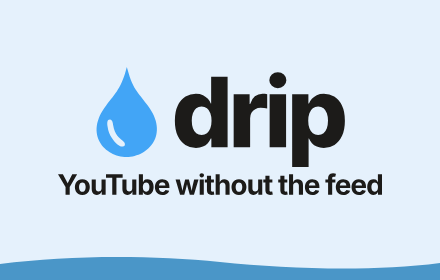
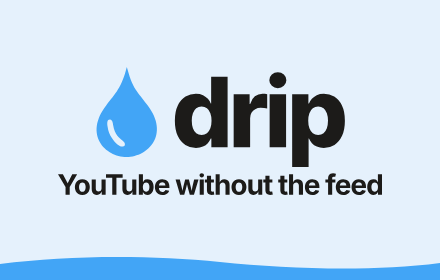
Store tile: the water strip in the drop's blue
On the pale blue background the water (rgb(74, 150, 200)) read as a
second, grayer blue beside the drop (#42a5f6). Jesse asked for one blue.
The five screenshots have no water and are byte for byte the same.

Claude-Session: https://claude.ai/code/session_01BaVsJg78QBgFX9FYqzaUSR

Changed region(s): [[0.0, 0.9143, 1.0, 1.0]]

diff --git a/store/art/frames-v5.html b/store/art/frames-v5.html
@@ -9,7 +9,7 @@
      ?tile=1. The words are on the left in the logo's Inter, and one piece of drip sits in a white panel on the right,
      on a pale blue. Jesse picked the layout (A of round 1) and the color (F of round 2).
      pieces.js takes the pictures of drip, and capture.sh v5 shoots these frames into store/images-v5/. */
-  :root { --mist: #e5f1fc; --ink: #1c1b19; --sub: #4a5968; --water: rgb(74, 150, 200); --shade: 20, 50, 90; }
+  :root { --mist: #e5f1fc; --ink: #1c1b19; --sub: #4a5968; --water: #42a5f6; --shade: 20, 50, 90; }
   html, body { margin: 0; background: var(--mist); }
   h1, p { margin: 0; }
   img { display: block; }
@@ -52,9 +52,9 @@
     <div class="words"><img class="mark" src="../logo/drip-wordmark.svg" alt="drip"><h1>${s.h}</h1>${s.p ? `<p>${s.p}</p>` : ''}</div>
     <div class="stage"><div class="panel${s.pad ? '' : ' is-bare'}" style="padding:${s.pad}px"><img src="pieces/${s.piece}.png" width="${s.w}" alt=""></div></div>
   </div>`;
-  // The tile is the logo over the same strip of water as the tiles in frames-v2.html.
+  // The tile is the logo over the strip of water from the tiles in frames-v2.html, in the drop's blue so the set has one blue.
   const tile = `<div class="tile">
-    <svg width="440" height="30" viewBox="0 0 440 30" preserveAspectRatio="none"><path d="M0 14C70 5 150 5 220 12S370 22 440 13V30H0Z" fill="rgb(74, 150, 200)"/></svg>
+    <svg width="440" height="30" viewBox="0 0 440 30" preserveAspectRatio="none"><path d="M0 14C70 5 150 5 220 12S370 22 440 13V30H0Z" style="fill: var(--water)"/></svg>
     <img src="../logo/drip-logo.svg" alt="drip: YouTube without the feed">
   </div>`;
   document.body.innerHTML = q.has('tile') ? tile : frame;
